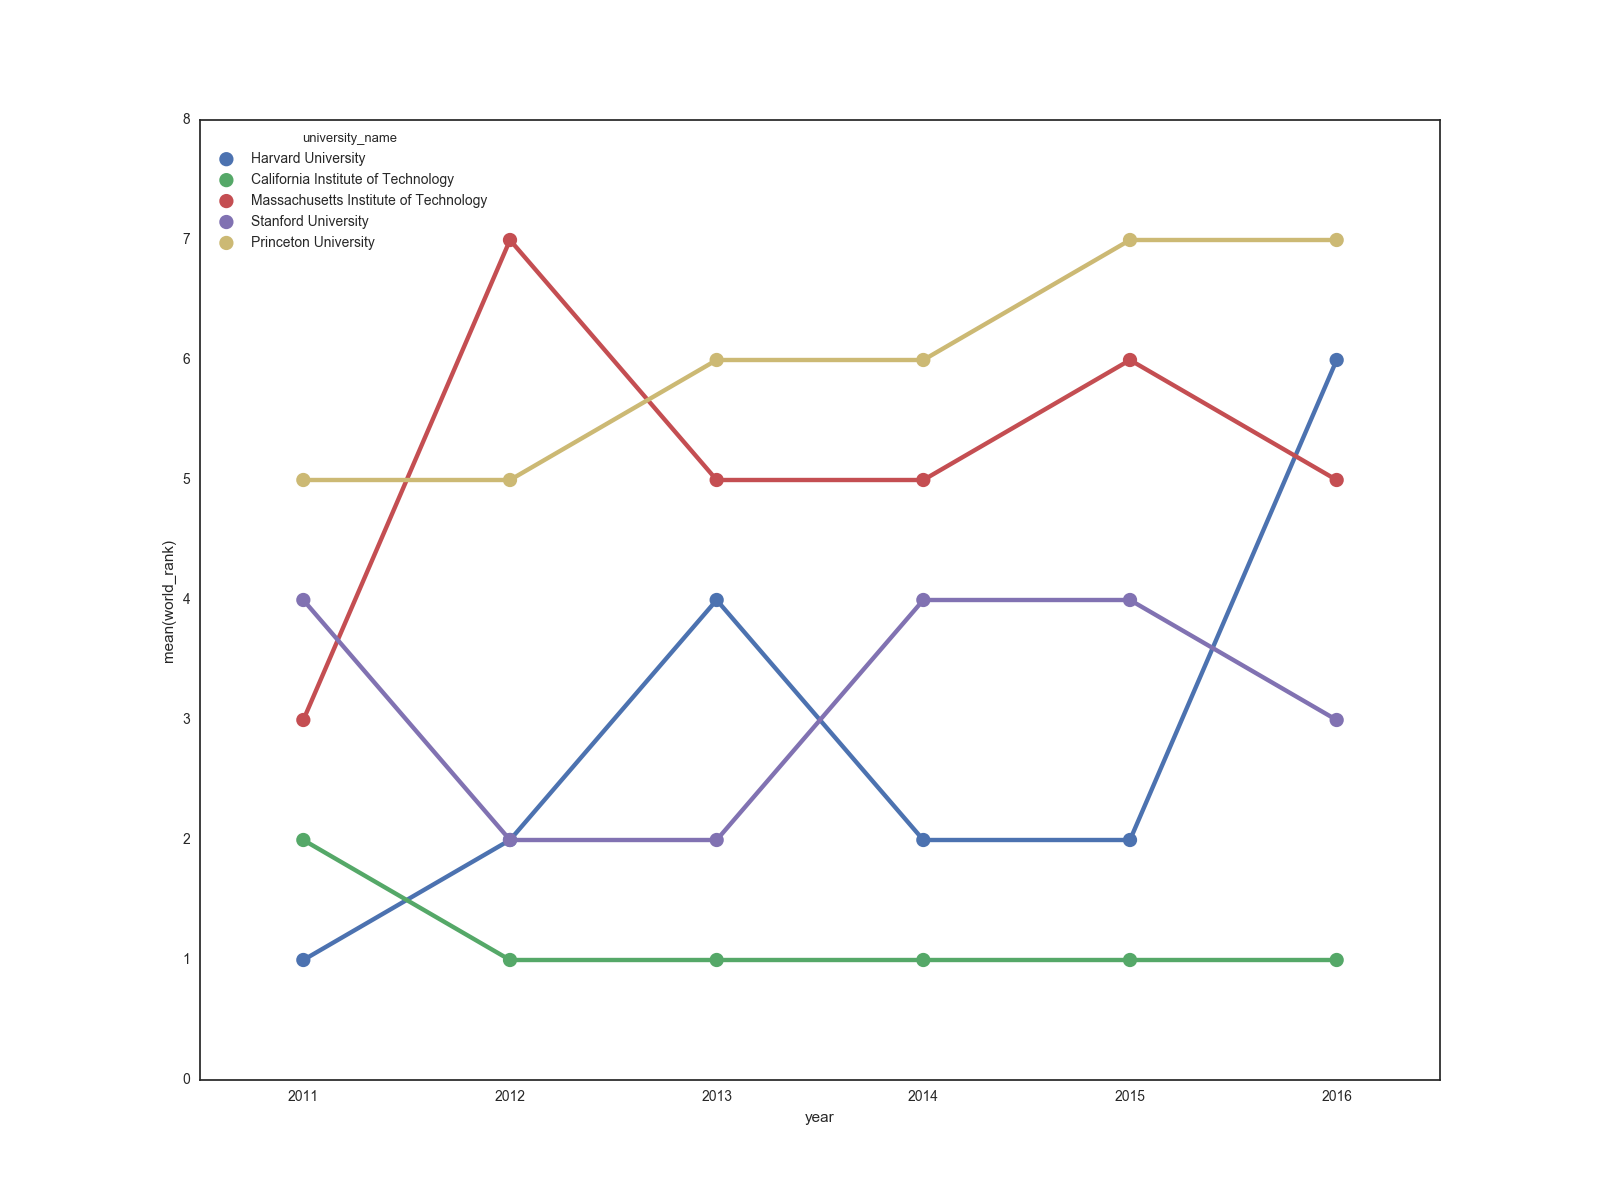
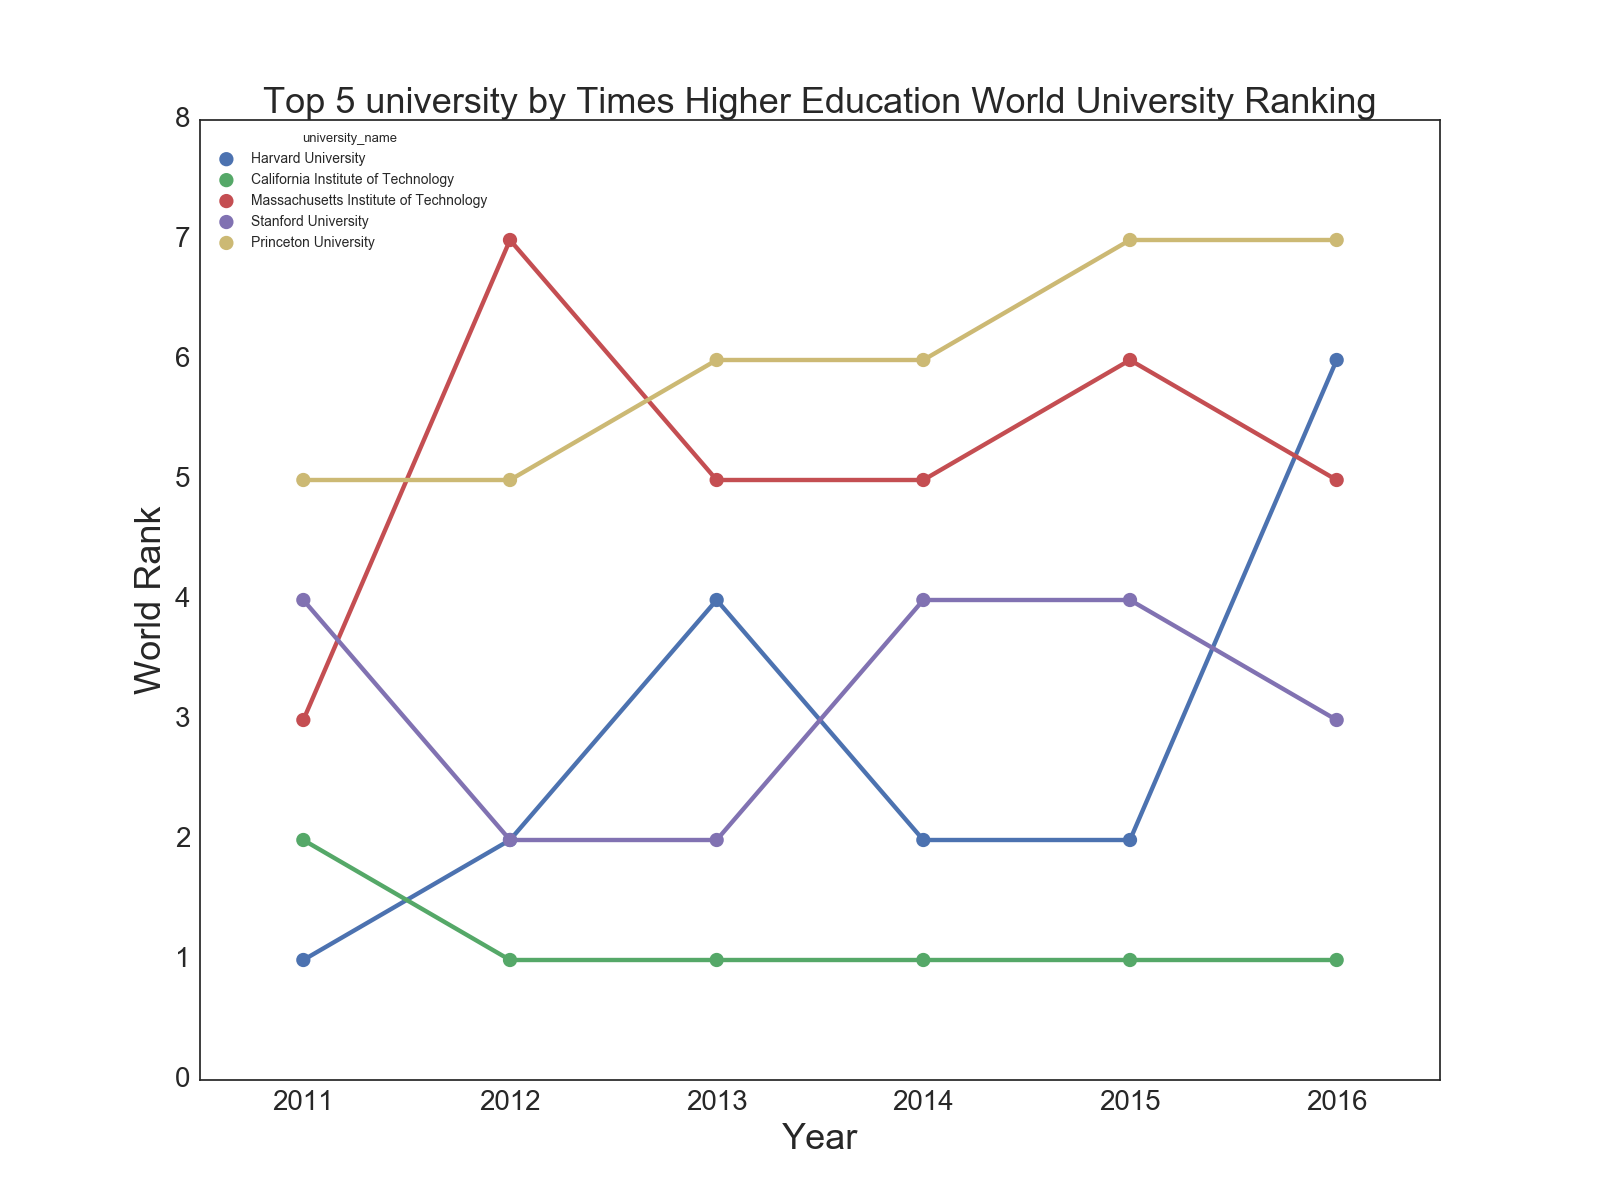
second phase the top uv list completed

diff --git a/templates/uvrating/topuv.html b/templates/uvrating/topuv.html
@@ -1,6 +1,6 @@
 {% extends "base.html" %}
 
-{% block title %} Top 10 University Rankings {% endblock %}
+{% block title %} Top {{ numberOfUv }} University Rankings by {{ rankingSystem }}{% endblock %}
 
 {% block content %}
 {{ dir }}
@@ -8,29 +8,6 @@
     {% csrf_token %}
     <div class="col-md-6">
         <div class="form-group">
-            <label for="university-name">Select A Ranking System</label>
-            <select id="university-name" name="rankingSystem" class="form-control">
-                <option value="">Select a Ranking System</option>
-                <option value="Times Ranking Data">Times Higher Education World University Ranking</option>
-                <option value="Shanghai Ranking">Shanghai Ranking</option>
-                <option value="Center for World University Rankings">Center for World University Rankings</option>
-            </select>
-            <div style="color:red">{% firstof message message %}</div>
-        </div>
-        <div class="form-group">
-            <label for="total-uv">Number of Universities to show </label>
-            <select id="total-uv" name="numberOfUv" class="form-control">
-                <option value="">Select Number of Universities</option>
-                <option value="1">1</option>
-                <option value="2">2</option>
-                <option value="3">3</option>
-                <option value="4">4</option>
-                <option value="5">5</option>
-                <option value="6">6</option>
-                <option value="7">7</option>
-                <option value="8">9</option>
-                <option value="8">10</option>
-            </select>
             <div style="color:red">
                 {% if error %}
                 <p style="color: red;">Please select the correct input.</p>
@@ -38,8 +15,40 @@
             </div>
         </div>
         <div class="form-group">
-            <label for="university-name"></label>
-            <button style="margin-top:25px;" type="submit" class="btn btn-primary btn-default">Submit</button>
+            <label for="university-name">Select A Ranking System <span style="color:red">*</span> </label>
+            <select id="university-name" name="rankingSystem" class="form-control">
+                <option value="">Select a Ranking System</option>
+                {% for v in lists %}
+                {% if rankingSystem == v %}
+                <option value="{{ v }}" selected> {{ v }}</option>
+                {% else %}
+                <option value="{{ v }}"> {{ v }}</option>
+                {% endif %}
+                {% endfor %}
+            </select>
+            <div style="color:red">{% firstof message message %}</div>
+        </div>
+        <div class="form-group">
+            <label for="total-uv">Number of Universities to show <span style="color:red">*</span></label>
+            <select id="total-uv" name="numberOfUv" class="form-control">
+                <option value="">Select Number of Universities</option>
+                {% for l in listOfNumber %}
+
+                {% ifequal numberOfUv|add:"0" l|add:"0"%}
+                <option value="{{ l }}" selected>{{ l }}</option>
+                {% else %}
+                <option value="{{ l }}">{{ l }}</option>
+                {% endifequal %}
+                {% endfor %}
+            </select>
+
+        </div>
+        <div class="form-group">
+            <span style="color:red">*</span> Required Input
+        </div>
+        <div class="form-group">
+
+            <button style="margin-top:2px;" type="submit" class="btn btn-primary btn-default">Submit</button>
         </div>
     </div>
     <div class="col-md-6">

diff --git a/templates/base.html b/templates/base.html
@@ -45,7 +45,7 @@
                     <div class="collapse navbar-collapse" id="bs-example-navbar-collapse-1">
                         <ul class="nav navbar-nav">
                             <li class=""><a href="/mysite">Home</a></li>
-                            <li><a href="/mysite/topuv">University Rating</a></li>
+                            <li><a href="/mysite/topuv">Top 10 University</a></li>
                         </ul>
                     </div><!-- /.navbar-collapse -->
                 </div><!-- /.container-fluid -->

diff --git a/templates/uvrating/index.html b/templates/uvrating/index.html
@@ -1,6 +1,6 @@
 {% extends "base.html" %}
 
-{% block title %} World University Rankings {% endblock %}
+{% block title %} {% if university %}{{ university }} {% endif %}World University Rankings {% endblock %}
 
 {% block content %}
 {{ dir }}

diff --git a/myapp/views.py b/myapp/views.py
@@ -144,71 +144,74 @@ def process_graph(university):
 def show_top_uv(request):
     # uvlist = {'uvlist': sorted(get_uv_list())}
     # org_list = {'orglist':check_output(["ls", "resources/data"]).decode("utf8")}
-    return render(request, 'uvrating/topuv.html')
+    lists = {
+        'Times Higher Education World University Ranking': 'Times Higher Education World University Ranking',
+        'Shanghai Ranking': 'Shanghai Ranking',
+        'Center for World University Rankings': 'Center for World University Rankings'
+    }
+    listOfNumber = [x for x in range(1, 11)]
+    return render(request, 'uvrating/topuv.html', {'lists': lists, 'listOfNumber': listOfNumber})
 
 
 def get_top_uv_form_data(request):
+    rank_lists = {
+        'Times Higher Education World University Ranking': 'Times Higher Education World University Ranking',
+        'Shanghai Ranking': 'Shanghai Ranking',
+        'Center for World University Rankings': 'Center for World University Rankings'
+    }
+    listOfNumber = [x for x in range(1, 11)]
+
     if request.method == 'POST':
         if request.POST.get('rankingSystem') and request.POST.get('numberOfUv'):
             if request.POST.get('rankingSystem') != '' and request.POST.get('numberOfUv') != '':
                 rankingSystem = request.POST.get('rankingSystem')
                 numberOfUv = request.POST.get('numberOfUv')
-                # process_graph function is called
                 process_top_uv_graph(rankingSystem, numberOfUv)
-            return render(request, 'uvrating/topuv.html', {'formpopulated': True})
-        return render(request, 'uvrating/topuv.html', {'error': True,})
-    return render(request, 'uvrating/topuv.html', {'formpopulated': False,'error': True,})
+            return render(request, 'uvrating/topuv.html',
+                          {'listOfNumber': listOfNumber, 'formpopulated': True, 'rankingSystem': rankingSystem,
+                           'numberOfUv': numberOfUv, 'lists': rank_lists})
+        return render(request, 'uvrating/topuv.html',
+                      {'error': True, 'lists': rank_lists, 'listOfNumber': listOfNumber,})
+    return render(request, 'uvrating/topuv.html', {'formpopulated': False, 'error': True, 'lists': rank_lists})
 
 
 def process_top_uv_graph(rankingSystem, numberOfUv):
     sns.set(style="white", color_codes=True)
+
     # % matplotlib inline
     pylab.rcParams['figure.figsize'] = 16, 12
     plot_data = ''
     numberOfUv = int(numberOfUv)
-    if rankingSystem == 'Times Ranking Data':
+    if rankingSystem == 'Times Higher Education World University Ranking':
         timesData = Data.get_time_data()
 
         schools_to_show = timesData.university_name[:numberOfUv]
         plot_data = timesData[timesData.university_name.isin(schools_to_show)]
-        plot_data['world_rank'] = plot_data['world_rank'].astype(int)
-        ax = sns.pointplot(x='year', y='world_rank', hue='university_name', data=plot_data);
-
-        pylab.savefig('resources/images/topuv.png')
-        pylab.cla()
-        pylab.clf()
-        pylab.close()
+        hue = "university_name"
+        draw_graph(plot_data, rankingSystem, numberOfUv, hue)
     elif rankingSystem == 'Shanghai Ranking':
         shanghaiData = Data.get_shanghai_data()
         schools_to_show = shanghaiData.university_name[:numberOfUv]
         plot_data = shanghaiData[shanghaiData.university_name.isin(schools_to_show)]
-        plot_data['world_rank'] = plot_data['world_rank'].astype(int)
-        ax = sns.pointplot(x='year', y='world_rank', hue='university_name', data=plot_data);
-
-        pylab.savefig('resources/images/topuv.png')
-        pylab.cla()
-        pylab.clf()
-        pylab.close()
+        hue = "university_name"
+        draw_graph(plot_data, rankingSystem, numberOfUv, hue)
     elif rankingSystem == 'Center for World University Rankings':
         cwurData = Data.get_cwur_data()
         schools_to_show = cwurData.institution[:numberOfUv]
         plot_data = cwurData[cwurData.institution.isin(schools_to_show)]
-        plot_data['world_rank'] = plot_data['world_rank'].astype(int)
-        ax = sns.pointplot(x='year', y='world_rank', hue='institution', data=plot_data);
+        hue = "institution"
+        draw_graph(plot_data, rankingSystem, numberOfUv, hue)
 
-        pylab.savefig('resources/images/topuv.png')
-        pylab.cla()
-        pylab.clf()
-        pylab.close()
-        # else:
-        #     timesData = Data.get_time_data()
-        #     schools_to_show = timesData.university_name[:10]
-        #     plot_data = timesData[timesData.school_name.isin(schools_to_show)]
 
-        # plot_data['world_rank'] = plot_data['world_rank'].astype(int)
-        # ax = sns.pointplot(x='year', y='world_rank', hue='university_name', data=plot_data);
-        #
-        # pylab.savefig('resources/images/topuv.png')
-        # pylab.cla()
-        # pylab.clf()
-        # pylab.close()
+def draw_graph(plot_data, rankingSystem, numberOfUv, hue):
+    plot_data['world_rank'] = plot_data['world_rank'].astype(int)
+    ax = sns.pointplot(x='year', y='world_rank', hue=hue, data=plot_data);
+    pylab.title("Top " + str(numberOfUv) + " university by " + rankingSystem, fontsize=26)
+    pylab.xticks(fontsize=20)
+    pylab.yticks(fontsize=20)
+    pylab.ylabel("World Rank", fontsize=26)
+    pylab.xlabel("Year", fontsize=26)
+    pylab.savefig('resources/images/topuv.png')
+    pylab.cla()
+    pylab.clf()
+    pylab.close()
